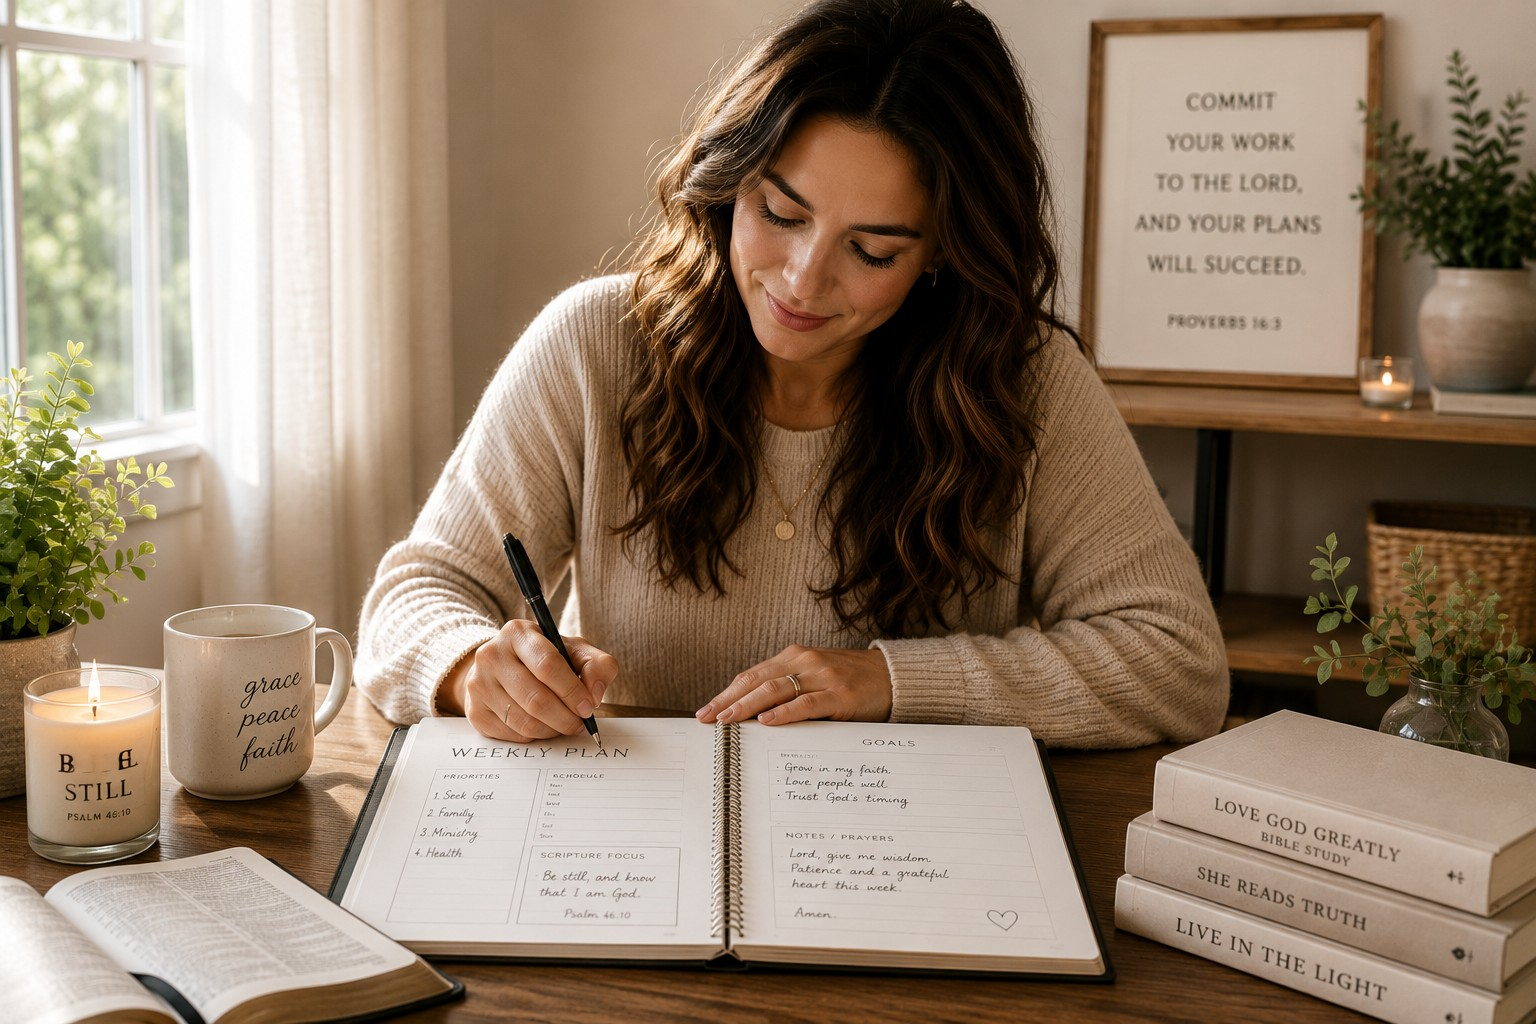
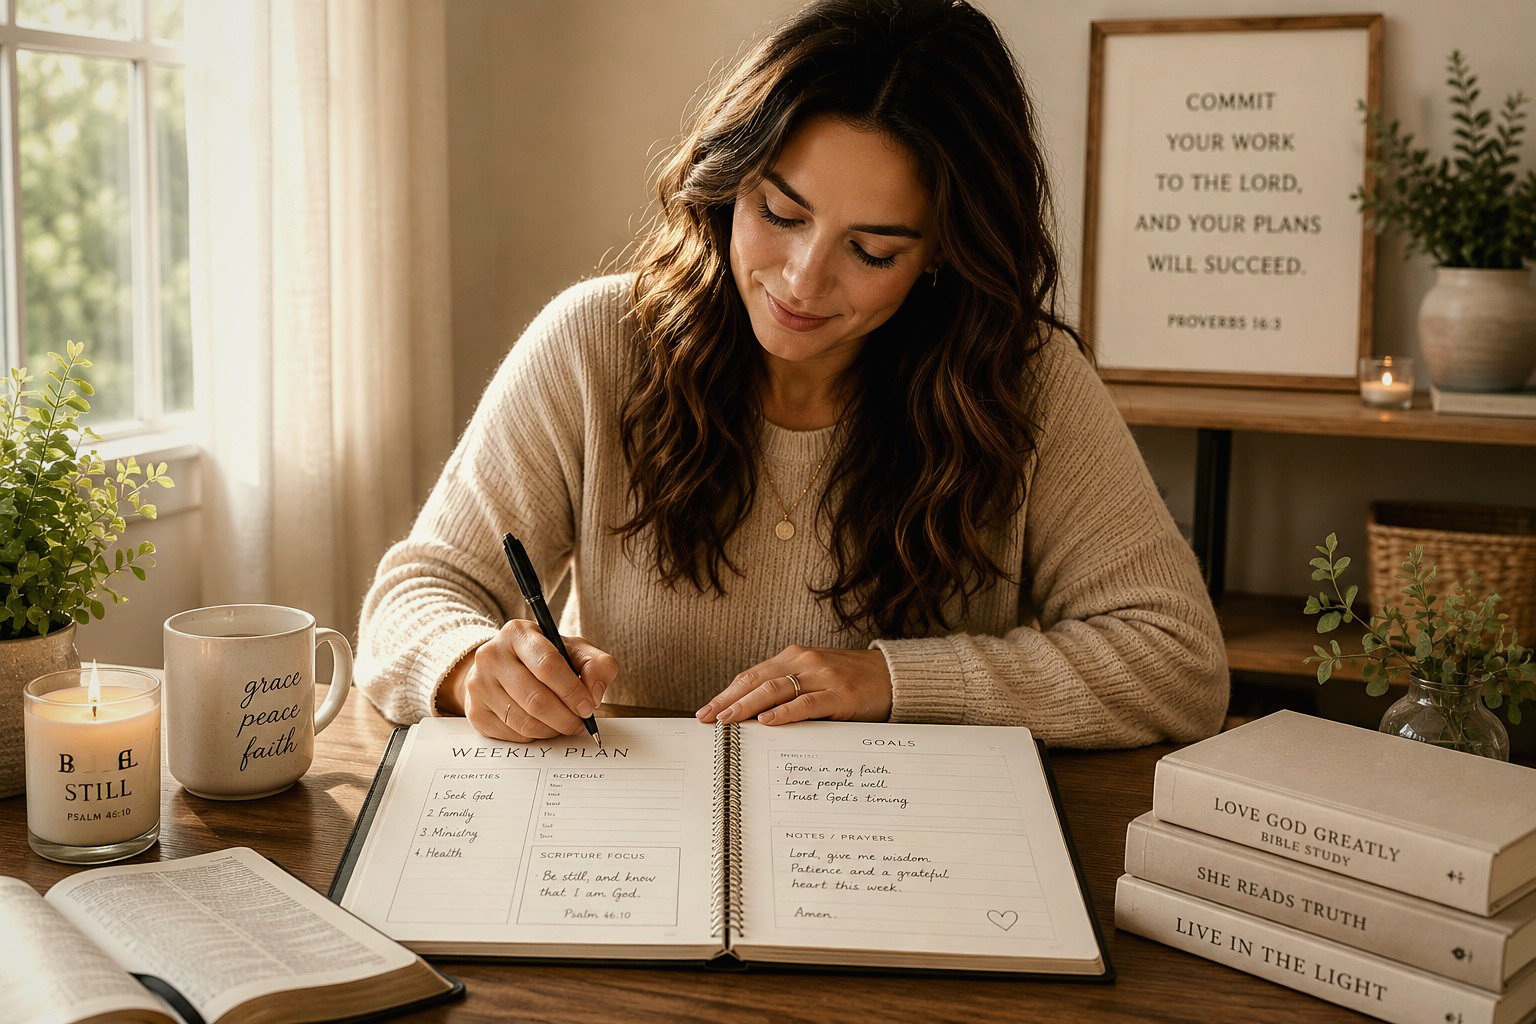
Add hero copy, How It Works section, and polished homepage photos.

Changed region(s): [[0.0, 0.0, 0.2188, 0.4688], [0.0, 0.8438, 0.1562, 1.0], [0.0312, 0.6562, 0.0938, 0.7188]]

diff --git a/app/page.tsx b/app/page.tsx
@@ -20,6 +20,27 @@ const audiences = [
   "Women carrying burdens",
 ];
 
+const howItWorksSteps = [
+  {
+    number: "1",
+    title: "Bring What You're Carrying",
+    description:
+      "Each week, bring Him your season — what's weighing on you, what you long for. Like Martha running to meet Jesus, you don't carry it alone. You cast your care on the One who cares for you.",
+  },
+  {
+    number: "2",
+    title: "Meet Him in His Word",
+    description:
+      "We walk with you to His table — Scripture matched to your season, daily prompts, and gentle guidance for where you actually are. Not a blank page, but a companion for the journey.",
+  },
+  {
+    number: "3",
+    title: "Let His Peace Shape Your Days",
+    description:
+      "As you sit with Him, His peace settles the heart — and the rest follows. Your plans, your habits, your ordinary days, lived from a place of rest instead of striving.",
+  },
+];
+
 const sitWithJesusFeatures = [
   {
     title: "Season-Tuned Devotionals",
@@ -214,9 +235,16 @@ export default function Home() {
         <div className="relative mx-auto grid max-w-6xl items-center gap-8 lg:grid-cols-2 lg:gap-10">
           <div className="text-center lg:text-left">
             <p className="text-sm font-medium uppercase tracking-[0.2em] text-sage">Ecclesiastes 3</p>
-            <h1 className="mt-4 font-serif text-4xl font-semibold leading-tight text-deep-brown sm:text-5xl lg:text-6xl">
-              For everything there is a season.
+            <h1 className="mt-4 font-serif text-[2.5rem] font-semibold leading-tight text-[#26215C] sm:text-[3.35rem] lg:text-[4.15rem]">
+              Life moves in seasons.
             </h1>
+            <p className="mt-4 max-w-xl font-serif text-xl leading-relaxed text-deep-brown/75 sm:text-[1.35rem] lg:mx-0">
+              &ldquo;To every thing there is a season, and a time to every purpose under the
+              heaven.&rdquo;
+              <span className="mt-2 block text-base font-sans font-medium not-italic text-deep-brown/50">
+                — Ecclesiastes 3:1
+              </span>
+            </p>
             <h2 className="mt-6 font-serif text-2xl font-semibold leading-snug text-terracotta sm:text-3xl">
               Every season has a seat at His table.
             </h2>
@@ -225,7 +253,7 @@ export default function Home() {
               <SeasonMoments />
             </div>
 
-            <p className="mx-auto mt-8 max-w-xl text-lg leading-relaxed text-deep-brown/70 lg:mx-0">
+            <p className="mx-auto mt-8 max-w-xl text-xl leading-relaxed text-deep-brown/70 lg:mx-0">
               Wherever your season finds you, Christ meets you there. God works
               differently in different seasons — and faith is lived in the
               everyday, not only on the mountaintop.
@@ -249,6 +277,75 @@ export default function Home() {
 
           <div className="mx-auto w-full max-w-md lg:max-w-none">
             <HeroVisual />
+          </div>
+        </div>
+      </section>
+
+      {/* Empathy — full seasons */}
+      <section className="px-6 pb-12">
+        <div className="mx-auto max-w-3xl text-center">
+          <p className="text-lg leading-relaxed text-deep-brown/70">
+            Some seasons are full. The early mornings and the lost sleep. The doctor visits and
+            the demanding job. The unexpected bill, the child who needs you, the to-do list that
+            never ends. You love the Lord — but the days are loud, and quiet time with Him keeps
+            slipping to tomorrow.
+          </p>
+          <p className="mt-6 text-lg leading-relaxed text-deep-brown/70">
+            We understand — we&apos;ve all been there, and felt the frustration. But time with God
+            shouldn&apos;t be one more thing you&apos;re failing to get to. At His Table meets you
+            in the few minutes you have and ushers you into His presence — bringing His Word to
+            your season, so you can lay your burdens down instead of carrying them alone.
+          </p>
+        </div>
+      </section>
+
+      {/* How it works */}
+      <section id="how-it-works" className="border-t border-blush/40 bg-warm-white px-6 pb-16">
+        <div className="mx-auto max-w-6xl">
+          <div className="mx-auto max-w-3xl text-center">
+            <p className="text-sm font-medium uppercase tracking-[0.2em] text-sage">
+              How At His Table Works
+            </p>
+            <h2 className="mt-4 font-serif text-3xl font-semibold leading-snug text-deep-brown sm:text-4xl">
+              Bring Your Season to His Table
+            </h2>
+            <blockquote className="mx-auto mt-6 max-w-2xl font-serif text-lg italic leading-relaxed text-terracotta sm:text-xl">
+              &ldquo;Casting all your care upon him; for he careth for you.&rdquo;
+              <footer className="mt-2 text-sm font-sans font-medium not-italic text-deep-brown/50">
+                — 1 Peter 5:7
+              </footer>
+            </blockquote>
+            <p className="mt-6 text-lg leading-relaxed text-deep-brown/70">
+              Every season brings something to carry — the full hands of one day, the grief of
+              another. Martha learned it isn&apos;t ours to carry alone. When we bring our season
+              to Jesus, He meets us there — and we&apos;ll walk with you, every step.
+            </p>
+          </div>
+
+          <div className="mt-12 grid gap-8 md:grid-cols-3">
+            {howItWorksSteps.map((step) => (
+              <div
+                key={step.number}
+                className="rounded-2xl border border-blush/50 bg-cream/50 p-6 text-center shadow-sm md:text-left"
+              >
+                <div className="mx-auto mb-4 flex h-10 w-10 items-center justify-center rounded-full bg-terracotta/10 font-serif text-lg font-semibold text-terracotta md:mx-0">
+                  {step.number}
+                </div>
+                <h3 className="font-serif text-xl font-semibold text-deep-brown sm:text-2xl">
+                  {step.title}
+                </h3>
+                <p className="mt-3 leading-relaxed text-deep-brown/70">{step.description}</p>
+              </div>
+            ))}
+          </div>
+
+          <div className="mt-12 text-center">
+            <p className="font-serif text-xl leading-relaxed text-deep-brown sm:text-2xl">
+              Wherever this season finds you, there&apos;s a seat saved for you at His table.
+            </p>
+            <div className="mt-8">
+              <JoinButton />
+            </div>
           </div>
         </div>
       </section>

diff --git a/scripts/polish-images.py b/scripts/polish-images.py
@@ -1,0 +1,107 @@
+#!/usr/bin/env python3
+"""Apply a subtle photo finish to homepage images (warmth, grain, softer digital look)."""
+
+from __future__ import annotations
+
+import math
+import random
+import shutil
+from pathlib import Path
+
+from PIL import Image, ImageChops, ImageEnhance, ImageFilter, ImageOps
+
+ROOT = Path(__file__).resolve().parent.parent
+IMAGES = ROOT / "public" / "images"
+BACKUP = IMAGES / "_originals"
+
+FILES = [
+    "hero-woman-bible.jpg",
+    "women-of-every-season.jpg",
+    "season-assessment.jpg",
+    "faith-planner.jpg",
+    "community-group.jpg",
+    "testimony-journal.jpg",
+]
+
+
+def warm_tones(img: Image.Image) -> Image.Image:
+    r, g, b = img.split()
+    r = r.point(lambda i: min(255, int(i * 1.03 + 4)))
+    g = g.point(lambda i: min(255, int(i * 1.01 + 2)))
+    b = b.point(lambda i: max(0, int(i * 0.96 - 2)))
+    return Image.merge("RGB", (r, g, b))
+
+
+def soft_clarity(img: Image.Image, radius: float = 0.6, blend: float = 0.12) -> Image.Image:
+    blurred = img.filter(ImageFilter.GaussianBlur(radius=radius))
+    return Image.blend(img, blurred, blend)
+
+
+def add_grain(img: Image.Image, intensity: float = 14, opacity: float = 0.035) -> Image.Image:
+    w, h = img.size
+    try:
+        noise = Image.effect_noise((w, h), intensity).convert("RGB")
+    except AttributeError:
+        layer = Image.new("L", (w, h))
+        px = layer.load()
+        for y in range(h):
+            for x in range(w):
+                px[x, y] = random.randint(0, 255)
+        noise = Image.merge("RGB", (layer, layer, layer))
+
+    return Image.blend(img, noise, opacity)
+
+
+def vignette(img: Image.Image, strength: float = 0.18) -> Image.Image:
+    w, h = img.size
+    cx, cy = w / 2, h / 2
+    max_dist = math.hypot(cx, cy)
+    mask = Image.new("L", (w, h))
+    px = mask.load()
+    for y in range(h):
+        for x in range(w):
+            dist = math.hypot(x - cx, y - cy) / max_dist
+            px[x, y] = int(255 * (1 - strength * (dist**1.6)))
+    dark = Image.new("RGB", (w, h), (18, 12, 8))
+    return Image.composite(img, dark, mask)
+
+
+def polish(img: Image.Image) -> Image.Image:
+    img = img.convert("RGB")
+    img = warm_tones(img)
+    img = ImageEnhance.Color(img).enhance(0.94)
+    img = ImageEnhance.Contrast(img).enhance(1.04)
+    img = ImageEnhance.Brightness(img).enhance(1.01)
+    img = soft_clarity(img)
+    img = img.filter(ImageFilter.UnsharpMask(radius=1.2, percent=45, threshold=3))
+    img = add_grain(img)
+    img = vignette(img, strength=0.12)
+    return img
+
+
+def main() -> None:
+    BACKUP.mkdir(exist_ok=True)
+    random.seed(42)
+
+    for name in FILES:
+        src = IMAGES / name
+        if not src.exists():
+            print(f"skip (missing): {name}")
+            continue
+
+        backup = BACKUP / name
+        if not backup.exists():
+            shutil.copy2(src, backup)
+            print(f"backed up: {name}")
+
+        with Image.open(src) as raw:
+            raw = ImageOps.exif_transpose(raw)
+            out = polish(raw)
+            out.save(src, format="JPEG", quality=90, optimize=True, subsampling=0)
+            print(f"polished: {name} ({out.size[0]}x{out.size[1]})")
+
+    print("done — originals saved in public/images/_originals/")
+
+
+if __name__ == "__main__":
+    main()
